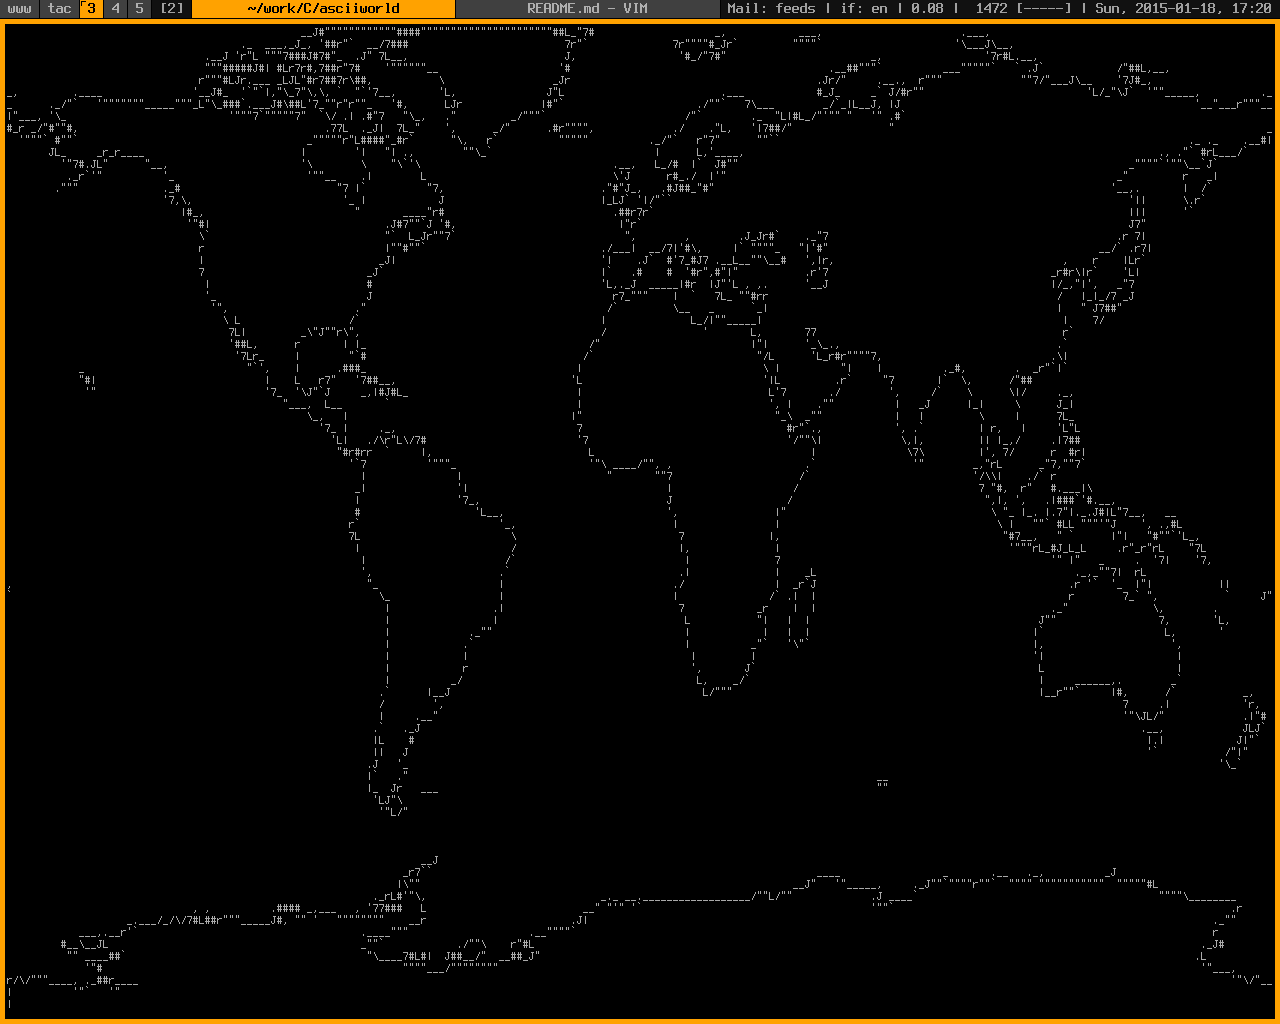
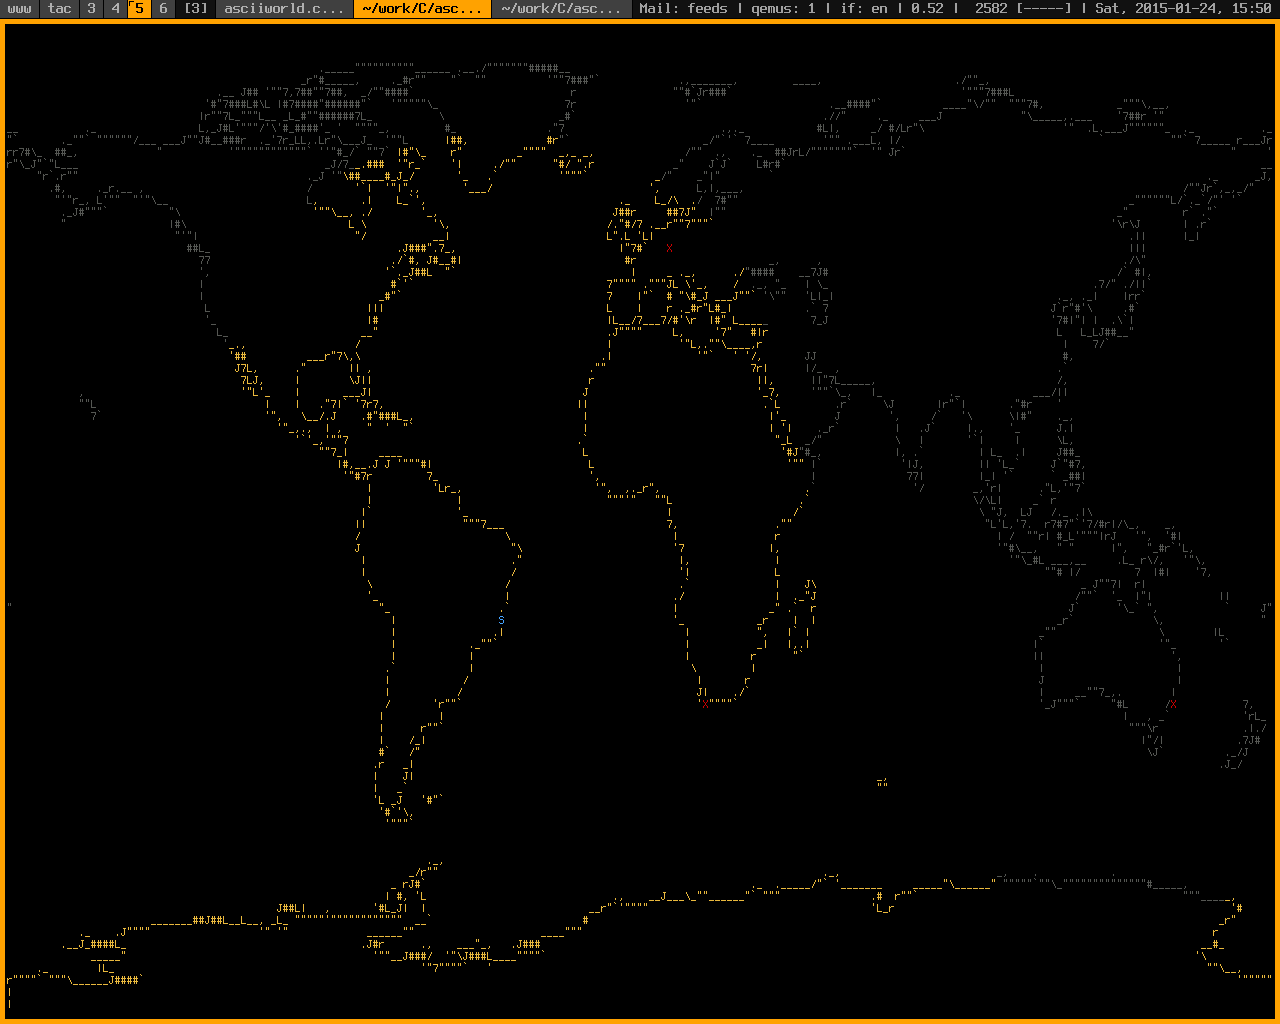
Add day-and-night mode

diff --git a/asciiworld.c b/asciiworld.c
@@ -4,12 +4,25 @@
 #include <stdlib.h>
 #include <string.h>
 #include <sys/ioctl.h>
+#include <time.h>
 #include <unistd.h>
+
+#define PIXEL_NORMAL 1
+#define PIXEL_HIGHLIGHT 2
+#define PIXEL_DARK 3
+#define PIXEL_SUN 4
 
 struct screen
 {
     int width, height;
     char *data;
+
+    struct sun
+    {
+        int active;
+        double lon, lat;
+        double x, y, z;
+    } sun;
 };
 
 double
@@ -22,6 +35,69 @@ double
 project_y(struct screen *s, double y)
 {
     return (180 - (y + 90)) / 180 * s->height;
+}
+
+double
+unproject_x(struct screen *s, double px)
+{
+    return (px * 360) / s->width - 180;
+}
+
+double
+unproject_y(struct screen *s, double py)
+{
+    return 90 - (py * 180) / s->height;
+}
+
+void
+calc_sun(struct sun *sun)
+{
+    time_t t;
+    struct tm utc;
+
+    time(&t);
+    gmtime_r(&t, &utc);
+
+    /* See german notes in "sonnenstand.txt". */
+    sun->lon = ((utc.tm_hour * 60 * 60 + utc.tm_min * 60 + utc.tm_sec) -
+                (86400.0 / 2 + ((-0.171 * sin(0.0337 * (utc.tm_yday + 1) + 0.465) -
+                 0.1299 * sin(0.01787 * (utc.tm_yday + 1) - 0.168)) * -3600))) *
+               (-360.0 / 86400);
+    sun->lat = 0.4095 * sin(0.016906 * ((utc.tm_yday + 1) - 80.086)) * 180 / M_PI;
+
+    /* Precalc cartesian coordinates. */
+    sun->x = sin((sun->lat + 90) * M_PI / 180) * cos(sun->lon * M_PI / 180);
+    sun->y = sin((sun->lat + 90) * M_PI / 180) * sin(sun->lon * M_PI / 180);
+    sun->z = cos((sun->lat + 90) * M_PI / 180);
+}
+
+char
+decide_shade(struct screen *s, int x, int y)
+{
+    double lon, lat;
+    double px, py, pz;
+    double sp;
+
+    if (!s->sun.active)
+        return PIXEL_NORMAL;
+
+    /* Unproject the point, calc cartesian coordinates of it and then
+     * use the scalar product to determine whether this point lies on
+     * the same half of the earth as the "sun point". */
+
+    lon = unproject_x(s, x);  /* phi */
+    lat = unproject_y(s, y);  /* theta */
+
+    px = sin((lat + 90) * M_PI / 180) * cos(lon * M_PI / 180);
+    py = sin((lat + 90) * M_PI / 180) * sin(lon * M_PI / 180);
+    pz = cos((lat + 90) * M_PI / 180);
+
+    sp = px * s->sun.x + py * s->sun.y + pz * s->sun.z;
+
+    if (sp < 0)
+        return PIXEL_DARK;
+    else
+        return PIXEL_NORMAL;
 }
 
 int
@@ -41,7 +117,7 @@ screen_init(struct screen *s, int width, int height)
 void
 screen_show_interpreted(struct screen *s)
 {
-    int x, y;
+    int x, y, sun_found;
     char a, b, c, d;
 
     for (y = 0; y < s->height - 1; y += 2)
@@ -53,44 +129,70 @@ screen_show_interpreted(struct screen *s)
             c = s->data[(y + 1) * s->width + x];
             d = s->data[(y + 1) * s->width + x + 1];
 
-            if (a == 2 || b == 2 || c == 2 || d == 2)
-                printf("\033[31mX\033[0m");
+            if (a == PIXEL_HIGHLIGHT || b == PIXEL_HIGHLIGHT ||
+                c == PIXEL_HIGHLIGHT || d == PIXEL_HIGHLIGHT)
+                printf("\033[31;1mX\033[0m");
+            else
+            {
+                sun_found = 0;
 
-            else if (!a && !b && !c && !d)
-                printf(" ");
+                if (s->sun.active)
+                {
+                    if (a == PIXEL_SUN || b == PIXEL_SUN ||
+                        c == PIXEL_SUN || d == PIXEL_SUN)
+                    {
+                        sun_found = 1;
+                        printf("\033[36;1mS\033[0m");
+                    }
+                    else if (a == PIXEL_DARK || b == PIXEL_DARK ||
+                             c == PIXEL_DARK || d == PIXEL_DARK)
+                        printf("\033[30;1m");
+                    else
+                        printf("\033[33m");
+                }
 
-            else if (!a && !b && !c &&  d)
-                printf(".");
-            else if (!a && !b &&  c && !d)
-                printf(",");
-            else if (!a && !b &&  c &&  d)
-                printf("_");
-            else if (!a &&  b && !c && !d)
-                printf("'");
-            else if (!a &&  b && !c &&  d)
-                printf("|");
-            else if (!a &&  b &&  c && !d)
-                printf("/");
-            else if (!a &&  b &&  c &&  d)
-                printf("J");
+                if (!sun_found)
+                {
+                    if (!a && !b && !c && !d)
+                        printf(" ");
 
-            else if ( a && !b && !c && !d)
-                printf("`");
-            else if ( a && !b && !c &&  d)
-                printf("\\");
-            else if ( a && !b &&  c && !d)
-                printf("|");
-            else if ( a && !b &&  c &&  d)
-                printf("L");
-            else if ( a &&  b && !c && !d)
-                printf("\"");
-            else if ( a &&  b && !c &&  d)
-                printf("7");
-            else if ( a &&  b &&  c && !d)
-                printf("r");
+                    else if (!a && !b && !c &&  d)
+                        printf(".");
+                    else if (!a && !b &&  c && !d)
+                        printf(",");
+                    else if (!a && !b &&  c &&  d)
+                        printf("_");
+                    else if (!a &&  b && !c && !d)
+                        printf("'");
+                    else if (!a &&  b && !c &&  d)
+                        printf("|");
+                    else if (!a &&  b &&  c && !d)
+                        printf("/");
+                    else if (!a &&  b &&  c &&  d)
+                        printf("J");
 
-            else if ( a &&  b &&  c &&  d)
-                printf("#");
+                    else if ( a && !b && !c && !d)
+                        printf("`");
+                    else if ( a && !b && !c &&  d)
+                        printf("\\");
+                    else if ( a && !b &&  c && !d)
+                        printf("|");
+                    else if ( a && !b &&  c &&  d)
+                        printf("L");
+                    else if ( a &&  b && !c && !d)
+                        printf("\"");
+                    else if ( a &&  b && !c &&  d)
+                        printf("7");
+                    else if ( a &&  b &&  c && !d)
+                        printf("r");
+
+                    else if ( a &&  b &&  c &&  d)
+                        printf("#");
+
+                    if (s->sun.active)
+                        printf("\033[0m");
+                }
+            }
         }
         printf("\n");
     }
@@ -135,7 +237,7 @@ screen_draw_line(struct screen *s, int x1, int y1, int x2, int y2)
     x = x1;
     y = y1;
     err = el / 2;
-    screen_set_pixel(s, x, y, 1);
+    screen_set_pixel(s, x, y, decide_shade(s, x, y));
 
     for (t = 0; t < el; t++)
     {
@@ -151,7 +253,7 @@ screen_draw_line(struct screen *s, int x1, int y1, int x2, int y2)
             x += pdx;
             y += pdy;
         }
-        screen_set_pixel(s, x, y, 1);
+        screen_set_pixel(s, x, y, decide_shade(s, x, y));
     }
 }
 
@@ -181,6 +283,9 @@ screen_draw_map(struct screen *s, char *file)
     double x1, y1;
     SHPHandle h;
     SHPObject *o;
+
+    if (s->sun.active)
+        calc_sun(&s->sun);
 
     h = SHPOpen(file, "rb");
     if (h == NULL)
@@ -274,13 +379,24 @@ screen_mark_locations(struct screen *s, char *file)
             sx = project_x(s, lon);
             sy = project_y(s, lat);
 
-            s->data[(int)sy * s->width + (int)sx] = 2;
+            s->data[(int)sy * s->width + (int)sx] = PIXEL_HIGHLIGHT;
         }
     }
 
     fclose(fp);
 
     return 1;
+}
+
+void
+screen_mark_sun(struct screen *s)
+{
+    double sx, sy;
+
+    sx = project_x(s, s->sun.lon);
+    sy = project_y(s, s->sun.lat);
+
+    s->data[(int)sy * s->width + (int)sx] = PIXEL_SUN;
 }
 
 int
@@ -292,6 +408,8 @@ main(int argc, char **argv)
     char *map = "ne_110m_land.shp";
     char *highlight_locations = NULL;
 
+    s.sun.active = 0;
+
     if (isatty(STDOUT_FILENO))
     {
         ioctl(STDOUT_FILENO, TIOCGWINSZ, &w);
@@ -302,7 +420,7 @@ main(int argc, char **argv)
         w.ws_row = 24;
     }
 
-    while ((opt = getopt(argc, argv, "w:h:m:l:")) != -1)
+    while ((opt = getopt(argc, argv, "w:h:m:l:s")) != -1)
     {
         switch (opt)
         {
@@ -318,6 +436,9 @@ main(int argc, char **argv)
             case 'l':
                 highlight_locations = optarg;
                 break;
+            case 's':
+                s.sun.active = 1;
+                break;
             default:
                 exit(EXIT_FAILURE);
         }
@@ -330,6 +451,8 @@ main(int argc, char **argv)
     if (highlight_locations != NULL)
         if (!screen_mark_locations(&s, highlight_locations))
             exit(EXIT_FAILURE);
+    if (s.sun.active)
+        screen_mark_sun(&s);
     screen_show_interpreted(&s);
 
     exit(EXIT_SUCCESS);

diff --git a/README.md b/README.md
@@ -30,15 +30,17 @@ Command line options
     50 8
     -33.9 18.4
 
+`-s`: Turn on "day-and-night" mode. Areas that are currently lit by the sun will be shown as yellow, whereas the other parts are shown as dark grey. The "position" of the sun itself will be marked with an "S".
+
 More ideas
 ==========
 
 *  Zoom/pan/crop.
 *  Highlight areas.
-*  Add a day-and-night mode.
 *  Highlight countries.
 
 CREDITS
 =======
 
 *  [Bresenham](https://de.wikipedia.org/wiki/Bresenham-Algorithmus#C-Implementierung)
+*  [Equation of time](http://lexikon.astronomie.info/zeitgleichung/)
